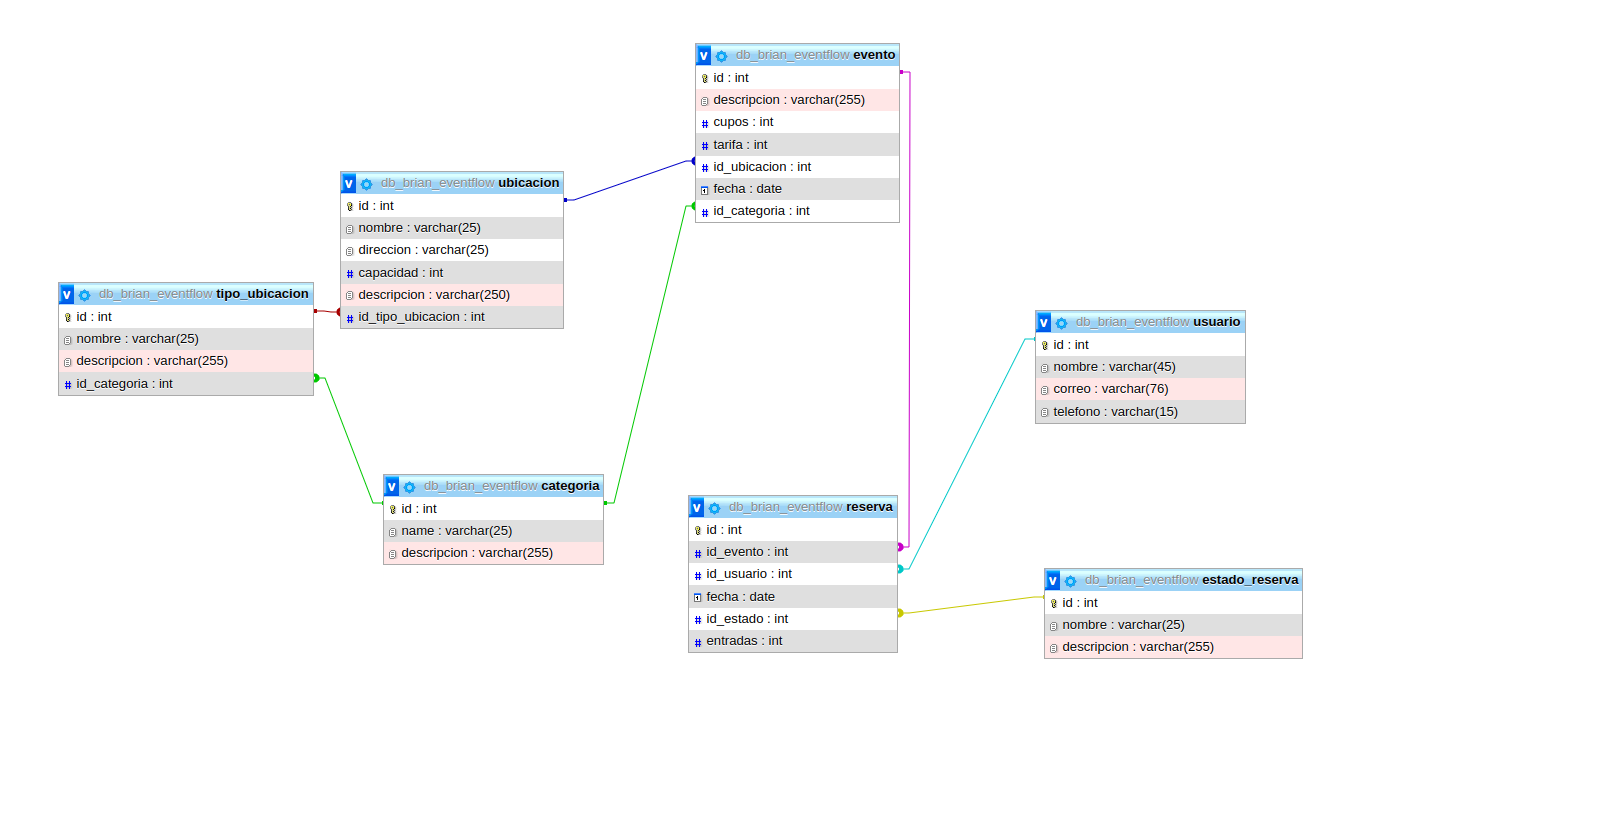
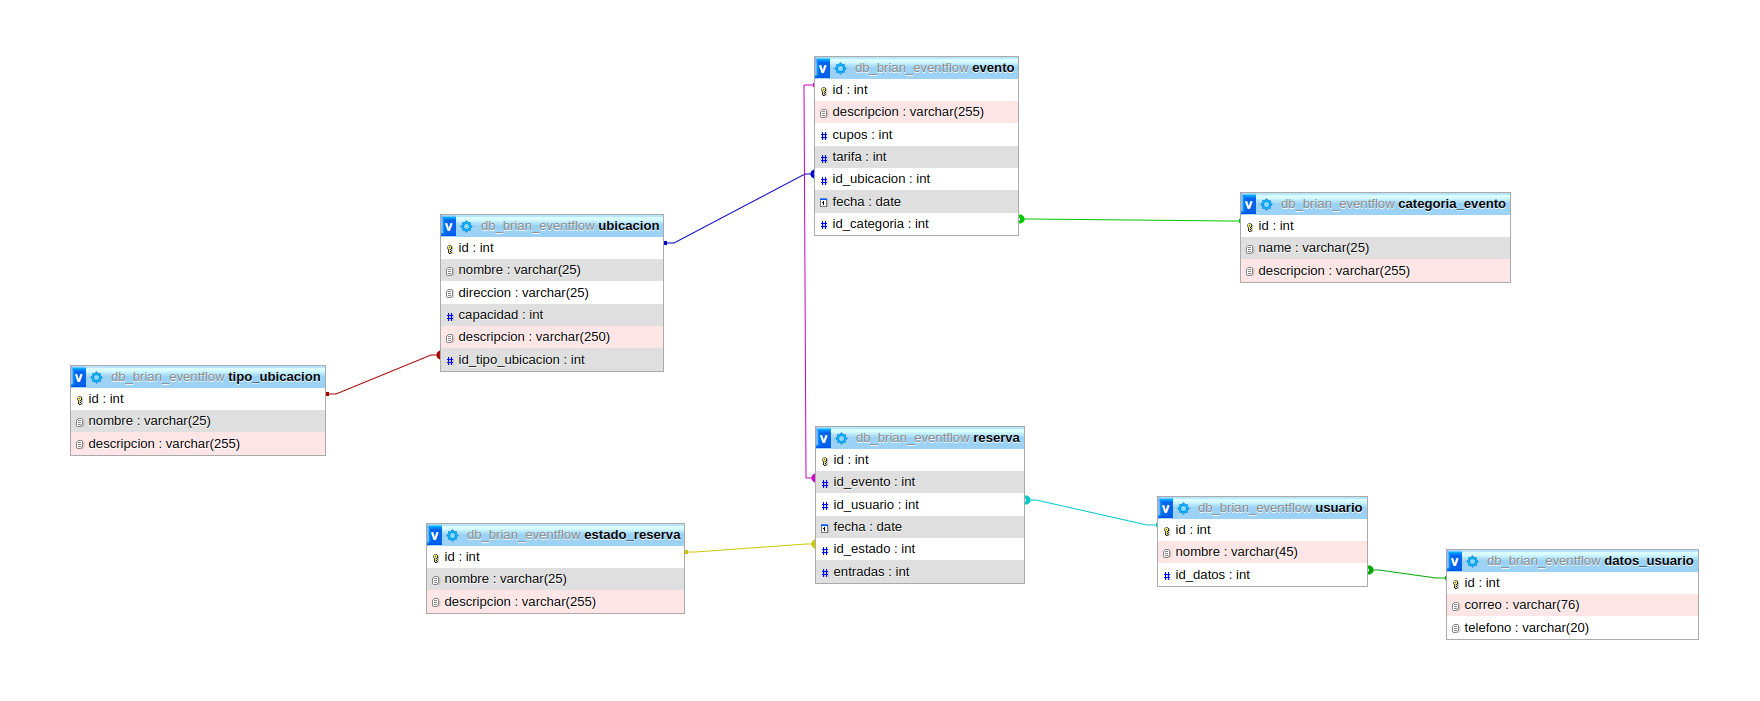
ci: :card_file_box: Se modificó la base de datos
Se cambió el script de la base de datos para una mejor normalización, también se actualizó el README con el esquema nuevo

diff --git a/README.md b/README.md
@@ -8,4 +8,4 @@ La estructura del backend que voy a entregar será las tablas de usuario, evento
 
 # Esquema de la base de datos:
 
-![Alt text](./resources/esquema.png)
+![esquema](./resources/esquema.png)
